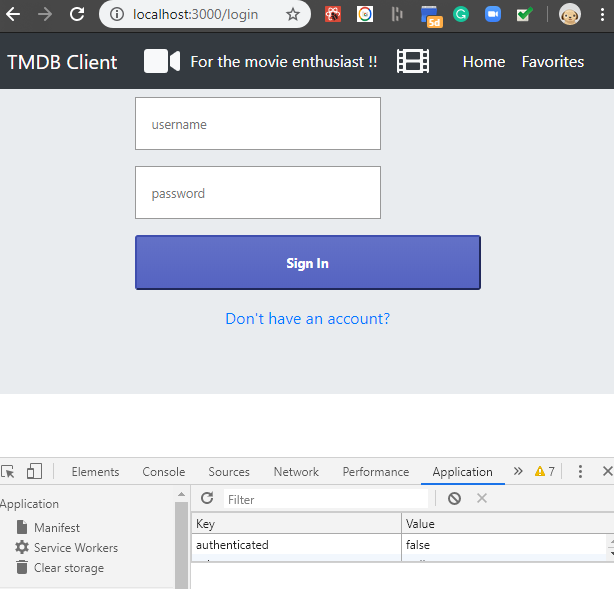
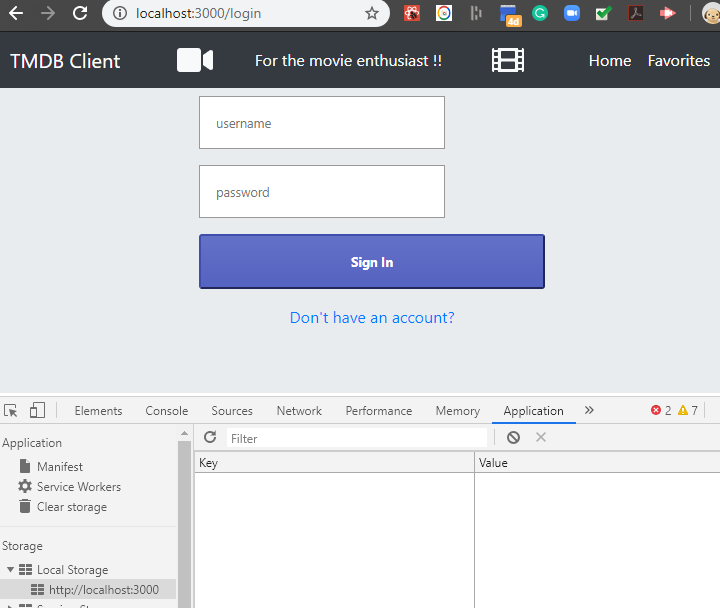
updated lab

diff --git a/topic11/book-01/07.Login.md b/topic11/book-01/07.Login.md
@@ -1,6 +1,6 @@
 # Create a Login and Signup page
 
-+ Have a look at the application in the browser. You will probably notice there's no movies.
++ Have a look at the application in the browser. You will probably notice there's no movies and you might see the message below in the console.
 
 ~~~bash
 proxy error: Could not proxy request /api/moviess from localhost:3000 to http://localhost:8080.
@@ -18,46 +18,66 @@ In the next part, we will include a Login page to allow user authentication.
 + In the */src/contexts* folder create a file called **authContext.js** with the following content:   
 
 ```javascript
-import React, { useEffect, useState , createContext , useContext} from 'react';
+import React, { createContext, useContext, useState } from 'react';
 
-export const AuthContext = createContext(null);
+export const AuthContext = createContext();
 
-const AuthContextProvider = (props) => {
-  const prevAuth = window.localStorage.getItem('authenticated') || false;
-  const prevAuthToken = window.localStorage.getItem('token') || null;
-  const [authenticated, setAuthenticated] = useState(prevAuth);
-  const [authToken, setAuthToken] = useState(prevAuthToken);
-  
-  useEffect(
-    () => {
-      window.localStorage.setItem('authenticated', authenticated);
-      window.localStorage.setItem('token', authToken);
-    },
-    [authenticated, authToken]
-  );
-  const defaultContext = {
-    authenticated,
-    setAuthenticated,
-    authToken,
-    setAuthToken
-  };
+const AuthContextProvider = props => {
+  const existingToken = localStorage.getItem("token");
+  const [authToken, setAuthToken] = useState(existingToken);
+  const setToken = (data) => {
+    localStorage.setItem("token", data);
+    setAuthToken(data);
+  }
   
   return (
-    <AuthContext.Provider value={defaultContext}>
-      {props.children}
-    </AuthContext.Provider>
-  );
-};
+      <AuthContext.Provider
+        value={{
+          authToken,
+          setAuthToken: setToken
+        }}
+      >
+        {props.children}
+      </AuthContext.Provider>
+  )
+}
 
 export function useAuth() {
   return useContext(AuthContext);
 }
 
-export default AuthContextProvider
+export default AuthContextProvider;
 ```
 
 You will use this context to keep track of the user authentication context.
 Lets create a basic React page that can manage User registration and Authentication from your MovieDB App using context and state.
+
+## MoviesContext and Home Page
+
+To make sure the homepage can detect (and request movies after authentication), we need to update the ``useEffect()`` function to detect a successful authentication:  
+
++ Update ``MoviesContextProvider`` in */src/contexts/movieContext.js* by adding a new state ``authenticated`` and completely replacing the ``useEffect(..)`` as follows:
+
+~~~javascript
+
+//code as before...   
+const MoviesContextProvider = props => {
+  const [movies, setMovies] = useState([])
+  //NEW LINE BELOW
+  const [authenticated, setAuthenticated] = useState(false);
+
+//code as before...
+
+useEffect(() => {
+    getMovies().then(movies => {
+      setMovies(movies);
+    });
+  },[authenticated]);
+
+//code as before...
+
+~~~
+
 
 ## Login and Signup
 
@@ -117,24 +137,27 @@ export { Form, Input, Button, Logo, Card, Error };
 + In the */src/pages/* folder add a new file called *loginPage.js* with the following contents
 
 ~~~javascript
-import React, { useState} from "react";
+import React, { useState, useContext} from "react";
 import { Link, Redirect } from "react-router-dom";
 import * as api from '../api/tmdb-api';
 import { Card,  Form, Input, Button, Error } from "../components/loginComponents";
 import { useAuth } from "../contexts/authContext";
+import {MoviesContext} from '../contexts/moviesContext'
 
 function Login() {
-  const context = useAuth();
+  const [isLoggedIn, setLoggedIn] = useState(false);
   const [isError, setIsError] = useState(false);
   const [userName, setUserName] = useState("");
   const [password, setPassword] = useState("");
+  const { setAuthToken } = useAuth();
+  const context = useContext(MoviesContext);
 
   function userLogin() {
     api.login( userName, password)
     .then(result => {
       if (result.success) {
-        context.setAuthToken(result.token);
-        context.setAuthenticated(true);
+        setAuthToken(result.token);
+        setLoggedIn(true);
       } else {
         setIsError(true);
       }
@@ -144,13 +167,14 @@ function Login() {
     });
   }
 
-  
-  if (context.authenticated===true) {
+  if (isLoggedIn) {
+    context.setAuthenticated(true);
     return <Redirect to="/" />;
   }
 
   return (
     <Card>
+      
       <Form>
         <Input
           type="username"
@@ -178,6 +202,8 @@ function Login() {
 
 export default Login;
 ~~~
+
+This script provides the Login Page and updates the MovieContext on successful authentication.
 
 + Add another file in *src/pages/* folder called *signupPage.js* with the following contents:
 
@@ -275,7 +301,7 @@ import AuthContextProvider from './contexts/authContext'
 
 Before the Home Page is rendered, check that the current user is authenticated.
 
-+ Open */src/pages/homepage.js* and modify as shown below:
++ Open */src/pages/homepage.js* and replace with the following:
 
 ~~~javascript
 import React, { useContext } from "react";
@@ -287,21 +313,18 @@ import { Redirect} from "react-router-dom";
 
 const MovieListPage = () => {
   const context = useContext(MoviesContext);
-  const userContext = useAuth();
- 
+  const { authToken } = useAuth();
   return (
-    <>{(userContext.authenticated===true)?(
+    <>{authToken?(
       <>
-      <PageTemplate 
+       <PageTemplate 
         title='All Movies'
         movies={context.movies}
         action={movie => <AddToFavoritesButton movie={movie} /> }
       />
       </>
     ):(
-      <Redirect to='/login' />
-    )}
-    </>
+        <Redirect to="/login"    /> )}</>
   );
 };
 
